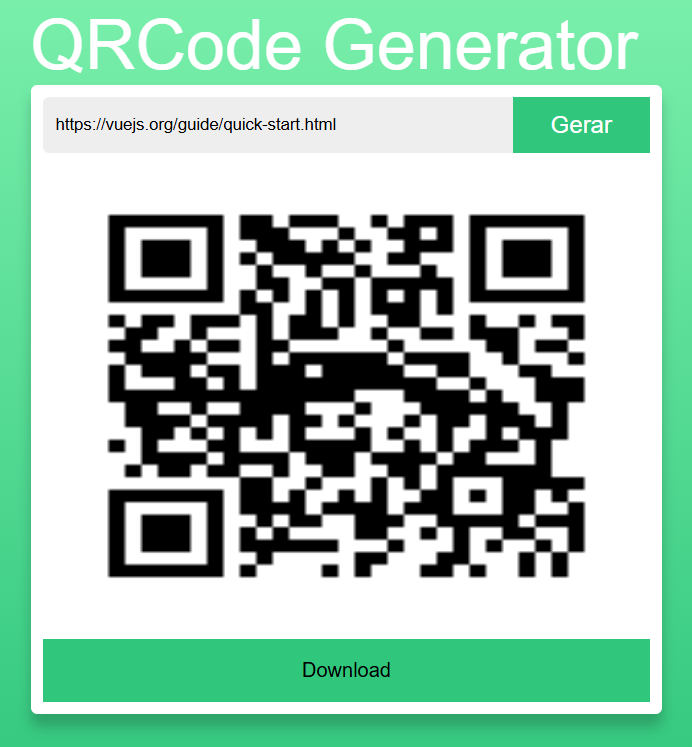
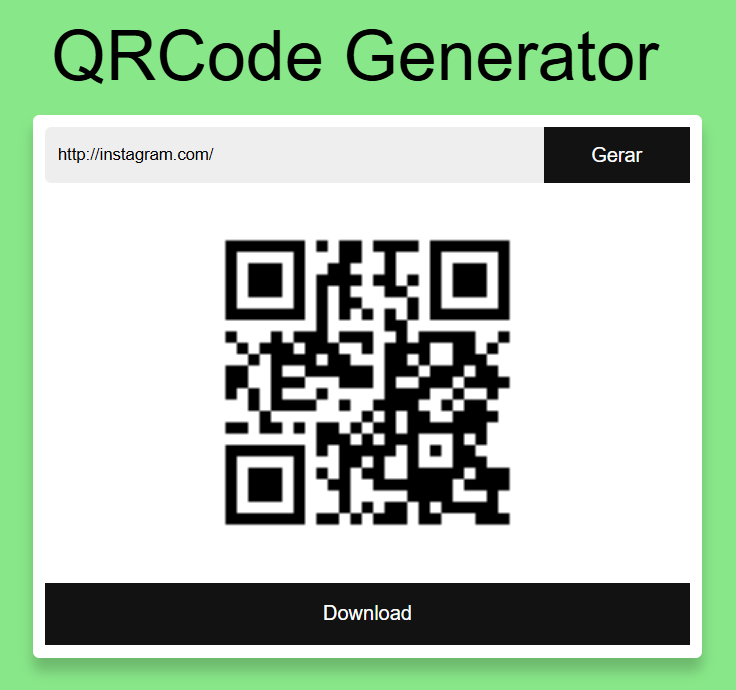
qrcode

diff --git a/my-app/src/App.vue b/my-app/src/App.vue
@@ -58,14 +58,13 @@ body{
   align-items: center;
   justify-content: center;
   font-family: Arial, Helvetica, sans-serif;
-  background: linear-gradient(to top, #30c67c, #82f4b1);
+  background-color: #88e788;
 }
 
 h1{
   font-size: 3.5rem;
   font-weight: 400;
-  color: #ffffff;
-  margin: 0;
+  margin: 15px;
 }
 
 button{
@@ -74,12 +73,17 @@ button{
   border: none;
   font-size: 1rem;
   cursor: pointer;
-  background-color: #30c67c;
+  color: #ffffff;
+  background-color: #121212;
 }
 
 .Gerador{
   width: 100%;
   padding: 10px;
+  display: flex;
+  align-items: center;
+  justify-content: center;
+  flex-direction: column;
   border-radius: 5px;
   background-color: #ffffff;
   box-shadow: 0px 10px 10px 0px rgba(0,0,0,0.2);
@@ -110,13 +114,12 @@ button{
   border: none;
   cursor: pointer;
   color: #ffffff;
-  background-color: #30c67c;
-  font-size: 1.2rem;
+  background-color: #121212;
 }
 
 .QRcode{
-  width: 100%;
-  height: 50vh;
+  width: 300px;
+  height: 300px;
   border-radius: 5px;
   margin-top: 10px;
   margin-bottom: 10px;
